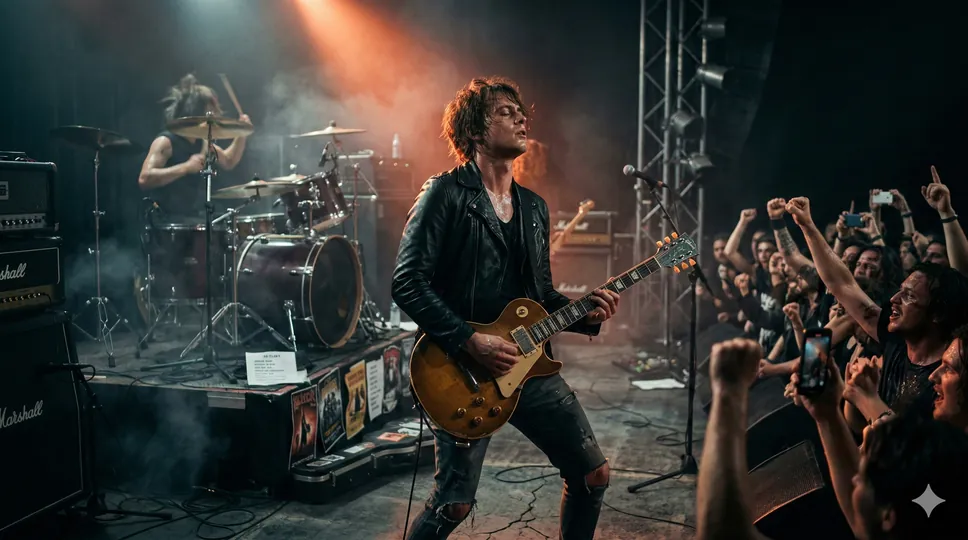
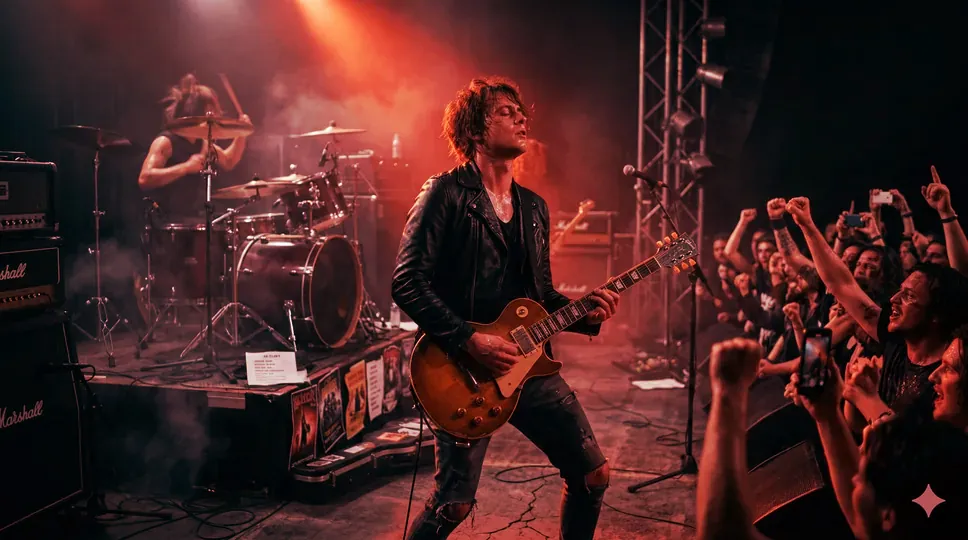
Ui Tweaks
Ui Tweaks and Added Weblinks Bar

diff --git a/src/assets/styles/about.css b/src/assets/styles/about.css
@@ -16,11 +16,11 @@
   margin: auto;
 
   /* Background image controlled via inline style in About.jsx */
-  background-color: rgba(12, 12, 12, 0.8);
+  background-color: rgba(12, 12, 12, 0.6);
   background-size: cover;
   background-position: center top;
   background-repeat: no-repeat;
-
+  background-blend-mode: darken;
   backdrop-filter: blur(16px);
   -webkit-backdrop-filter: blur(16px);
 
@@ -51,21 +51,27 @@
 
 .wrapper-rock {
   border-bottom: 2px solid rgba(255, 0, 0, 0.7);
+  box-shadow: 0 3px 30px 3px rgba(255, 0, 0, 0.3);
 }
 .wrapper-jazz {
   border-bottom: 2px solid rgba(136, 117, 109, 0.7);
+  box-shadow: 0 3px 30px 3px rgba(136, 117, 109, 0.3);
 }
 .wrapper-pop {
   border-bottom: 2px solid rgba(255, 20, 147, 0.7);
+  box-shadow: 0 3px 30px 3px rgba(255, 20, 147, 0.3);
 }
 .wrapper-lofi {
   border-bottom: 2px solid rgba(88, 61, 184, 0.7);
+  box-shadow: 0 3px 30px 3px rgba(96, 59, 228, 0.5);
 }
 .wrapper-rap {
   border-bottom: 2px solid rgba(61, 235, 26, 0.7);
+  box-shadow: 0 3px 30px 3px rgba(61, 235, 26, 0.3);
 }
 .wrapper-country {
   border-bottom: 2px solid rgba(153, 115, 61, 0.7);
+  box-shadow: 0 3px 30px 3px rgba(153, 115, 61, 0.3);
 }
 
 /* ── Hero content ──────────────────────────────────────────── */
@@ -89,11 +95,8 @@
 .about-section {
   width: 100%;
   position: relative;
+  
 
-  /* No backdrop-filter — that would blur the video behind the whole page.
-     Instead use a dark transparent background so content is readable
-     while the video still shows through the gaps. */
-  background: transparent;
 
   padding: 3rem 0;
 }
@@ -127,7 +130,8 @@
 }
 .about-section--lofi .about-section__inner {
   border-color: rgba(88, 61, 184, 0.9);
-  box-shadow: 0 8px 32px rgba(88, 61, 184, 0.5);
+  box-shadow: 0 8px 32px rgba(96, 59, 228, 0.7);
+  
 }
 .about-section--rap .about-section__inner {
   border-color: rgba(42, 161, 18, 0.9);
@@ -147,7 +151,7 @@
   overflow: hidden;
   margin: 0 auto;
   margin-bottom: -20px;
-  margin-top: -80px;
+  margin-top: -60px;
   border: 3px solid rgba(7, 129, 138, 0.8);
   box-shadow: 0 10px 30px rgba(0, 0, 0, 0.5);
   transition:

diff --git a/src/components/WebLinks.jsx b/src/components/WebLinks.jsx
@@ -1,0 +1,35 @@
+import React from 'react'
+import { BsTwitterX } from "react-icons/bs";
+import { VscGithub } from "react-icons/vsc";
+import { FaLinkedin } from "react-icons/fa6";
+import '../assets/styles/weblinks.css'
+
+
+const WebLinks = () => {
+  return (
+    <aside className="web-links">
+      
+      <ul className="web-links-list">
+                <li>
+          <a href="https://x.com/the8BitGinger" target="_blank" rel="noopener noreferrer">
+            <BsTwitterX size={28} />
+          </a>
+        </li>
+        <li>
+          <a href="https://github.com/8BitGinger" target="_blank" rel="noopener noreferrer">
+            <VscGithub size={28} />
+          </a>
+        </li>
+        <li>
+          <a href="https://www.linkedin.com/in/ryanfanntastic/" target="_blank" rel="noopener noreferrer">
+            <FaLinkedin size={28} />
+          </a>
+        </li>
+
+
+      </ul>
+    </aside>
+  )
+}
+
+export default WebLinks

diff --git a/src/index.css b/src/index.css
@@ -62,25 +62,22 @@ body {
 /* 2. Firefox (Standard) */
 * {
   scrollbar-width: thin;          /* "auto" or "thin" */
-  scrollbar-color: rgba(64, 224, 208, 0.849) #222222;  /* thumb color | track color */
+  scrollbar-color: rgba(25, 231, 238, 0.8) #222222;  /* thumb color | track color */
 }
 
 /* =========================================
    2. Shared UI Elements (Glassmorphism)
    ========================================= */
 .navbar,
-.contact-wrapper,
+
 .projects-wrapper {
-  background: rgba(70, 69, 69, 0.192);
-  backdrop-filter: blur(16px);
-  -webkit-backdrop-filter: blur(16px); /* Safari support */
+  background: rgba(0, 0, 0, 0.8);
+  backdrop-filter: blur(8px);
+  -webkit-backdrop-filter: blur(8px); /* Safari support */
   transform: translateZ(0);
   will-change: backdrop-filter;
 }
 
-.projects-wrapper {
-  backdrop-filter: none;
-}
 
 /* .link {
   color: white;

diff --git a/src/assets/styles/mini-player.css b/src/assets/styles/mini-player.css
@@ -268,13 +268,33 @@
 @media (max-width: 480px) {
   .mini-player {
     bottom: 16px;
-    right: 16px;
-    left: 16px;
-    border-radius: 16px;
+    right: 3px;
+    padding: none;
+    margin: auto;
+    border: none;
+    background: none;
+    box-shadow: none;
+    backdrop-filter: none;
+    -webkit-backdrop-filter: none;
     justify-content: space-between;
   }
 
-  .mini-player__slider {
-    width: 80px;
+  .mini-player__volume {
+    display: none;
+  }
+
+  .mini-player__label {
+    display: none;
+  }
+
+  .mini-player__btn {
+    width: 40px;
+    height: 40px;
+    border: 3px double rgba(247, 241, 241, 0.9);
+    box-shadow: 0 0 8px rgba(10, 10, 10, 0.9);
+    color: #fff;
+    transition:
+      background 0.2s ease,
+      transform 0.15s ease;
   }
 }

diff --git a/src/assets/styles/weblinks.css b/src/assets/styles/weblinks.css
@@ -1,0 +1,40 @@
+.web-links {
+  display: flex;
+  flex-direction: row;
+  gap: 1rem;
+  padding: 2rem 0;
+  
+  width: fit-content;
+  margin: 0 auto;
+ 
+}
+
+.web-links-list {
+  display: flex;
+  gap: 1.5rem;
+  flex-wrap: wrap;
+  justify-content: center;
+    list-style: none;
+   
+    flex-direction: row;
+    background-color: rgba(0, 0, 0, 0.5);
+    padding: 1rem 1rem;
+    border-radius: 36px;
+     backdrop-filter: blur(8px) saturate(1.6);
+  -webkit-backdrop-filter: blur(8px) saturate(1.6);
+  box-shadow: 0 8px 32px rgba(0, 0, 0, 0.7);
+  border: 1px double rgba(255, 255, 255, 0.2);
+}
+
+.web-links-list li {
+  scale: 1;
+  transition: all 0.3s ease;
+  margin-top: 5px;
+}
+
+.web-links-list li:hover {
+  scale: 1.3;
+  color: turquoise;
+}
+
+

diff --git a/src/pages/Contact.jsx b/src/pages/Contact.jsx
@@ -2,11 +2,13 @@ import React from 'react';
 import { useForm, ValidationError } from '@formspree/react';
 import { motion, AnimatePresence } from 'framer-motion';
 import '../assets/styles/contact.css';
+import WebLinks from '../components/WebLinks';
 
 const Contact = (theme) => {
   const [state, handleSubmit] = useForm('mjvnrreq');
 
   return (
+    <>
     <div className="contact-wrapper">
       <AnimatePresence mode="wait">
         {state.succeeded ? (
@@ -107,7 +109,11 @@ const Contact = (theme) => {
           </motion.div>
         )}
       </AnimatePresence>
+      
     </div>
+
+    <WebLinks />
+    </>
   );
 };
 

diff --git a/src/assets/styles/contact.css b/src/assets/styles/contact.css
@@ -8,7 +8,8 @@
   margin: auto;
   padding: 40px;
   padding-top: 130px;
-  background: rgba(0, 0, 0, 0.5);
+    background: rgba(12, 12, 12, 0.6);
+
   backdrop-filter: blur(16px) saturate(1.8);
   -webkit-backdrop-filter: blur(16px) saturate(1.8);
   border: 1px solid turquoise;

diff --git a/src/components/Footer.jsx b/src/components/Footer.jsx
@@ -1,0 +1,12 @@
+import React from 'react'
+import '../assets/styles/footer.css'
+
+const Footer = () => {
+  return (
+    <footer className="footer">
+      <p>&copy; 2024 Fanntastic Portfolio. All rights reserved.</p>
+    </footer>
+  )
+}
+
+export default Footer

diff --git a/src/components/PageHeader.jsx b/src/components/PageHeader.jsx
@@ -1,0 +1,9 @@
+import React from 'react'
+
+const PageHeader = () => {
+  return (
+    <div>PageHeader</div>
+  )
+}
+
+export default PageHeader
